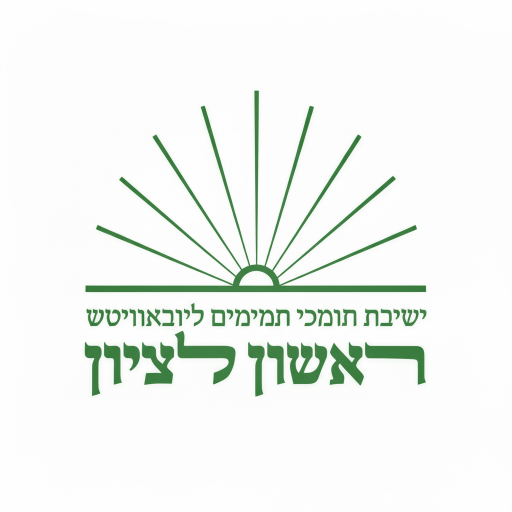
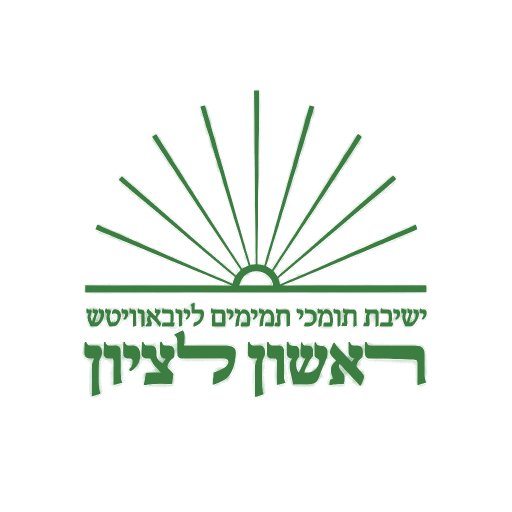
סבב 72: מאסטר אחד לאייקון, וצבע דיו אחד בשני המסלולים
- design/icon-master.png של שכר הוא המקור היחיד, בית-לבית בשתיהן
- דיו ההנהלה נגזר ממנו בסיבוב גוון 225.8° ובהתאמת טון ⟵ [42,60,117]
- tile() מצייר מעכשיו את APP.ink דרך המסכה — ⛔ ולא מעתיק RGB מהמאסטר
- מסכה מתחת ל-ALPHA_MIN מתאפסת: רעש הנייר צבע את רקע האריח
- 16 הנכסים הופקו מחדש בשתיהן; תוכן 192×171 בשתיהן
- שורה 74 — תקן צבע הדיו, probe על שני המסלולים, מוטציה ומוטציית-נגד
- versionCode 11 ⟵ 12 בשתיהן, וטבלת android/README עודכנה

diff --git a/android/README.md b/android/README.md
@@ -15,7 +15,7 @@ Built in the exact pattern of yoman-avoda's round-13 shell (the network-loading 
 |---|---|
 | **Package ID** | `com.schar.limud` |
 | **טוען** | `https://ygtotlrl-lab.github.io/schar-limud/` — **מהרשת**, לא מנכסים מוטבעים |
-| **versionCode** | 11 — קודם בסבב 71 (כל נכסי האייקון נוצרו מחדש ע"י `tools/gen-icons.mjs`, שהוא מעכשיו מקור האמת היחיד להם). 10 — קודם בסבב 71 (חמשת קובצי `ic_launcher_foreground` נגזרו מחדש לצלע תוכן 48/72/96/144/192 בדיוק, בהכפלה מוקדמת באלפא). 9 — קודם בסבב 68 (היסטוריית הגרסאות ירדה מהערות `build.gradle` — מקור אמת שני; ⛔ הטבלה הזו היא ההיסטוריה). 8 — קודם בסבב 66 (עשרת קובצי ה-mipmap הוחלפו). 6 — קודם בתיקון שאחרי סבב 60 (קיצור ההערה המשותפת ב-`ShellActivity`, שנעשה בסבב 60 בלי קידום). 5 — קודם בסבב 58 (הסרת `FLAG_ACTIVITY_NEW_TASK` ממסירת יעד חיצוני ל-`ACTION_VIEW`). 4 = סבב 46ב (היפוך ברירת המחדל בקובצי התצורה). 3 = סבב 45, 2 = סבב 41 (חילוץ המעטפת), 1 = המעטפת הראשונה של שכר לימוד, טוענת מהרשת מהיום הראשון (לא היה כאן שלב `file://`) |
+| **versionCode** | 12 — קודם בסבב 72 (מאסטר האייקון אוחד: קובץ אחד לשתי האפליקציות שציורן זהה, וצבע הדיו נגזר ממנו במקום להיות מוקלד — `tile()` ו-`foreground()` מציירים מעכשיו באותו צבע). 11 — קודם בסבב 71 (כל נכסי האייקון נוצרו מחדש ע"י `tools/gen-icons.mjs`, שהוא מעכשיו מקור האמת היחיד להם). 10 — קודם בסבב 71 (חמשת קובצי `ic_launcher_foreground` נגזרו מחדש לצלע תוכן 48/72/96/144/192 בדיוק, בהכפלה מוקדמת באלפא). 9 — קודם בסבב 68 (היסטוריית הגרסאות ירדה מהערות `build.gradle` — מקור אמת שני; ⛔ הטבלה הזו היא ההיסטוריה). 8 — קודם בסבב 66 (עשרת קובצי ה-mipmap הוחלפו). 6 — קודם בתיקון שאחרי סבב 60 (קיצור ההערה המשותפת ב-`ShellActivity`, שנעשה בסבב 60 בלי קידום). 5 — קודם בסבב 58 (הסרת `FLAG_ACTIVITY_NEW_TASK` ממסירת יעד חיצוני ל-`ACTION_VIEW`). 4 = סבב 46ב (היפוך ברירת המחדל בקובצי התצורה). 3 = סבב 45, 2 = סבב 41 (חילוץ המעטפת), 1 = המעטפת הראשונה של שכר לימוד, טוענת מהרשת מהיום הראשון (לא היה כאן שלב `file://`) |
 | **minSdk / targetSdk** | 21 / 34 |
 | **WebView** | JavaScript, DOM storage (localStorage — שם יושבים `sl_mirror_*`/`sl_pending`), DB. **בלי** גישת `file://` ובלי mixed content פתוח — האתר הוא https בלבד, `usesCleartextTraffic=false` |
 | **ניווט** | כל `http`/`https` **נשאר בתוך המעטפת**. שאר הסכימות (`tel:`, `mailto:`, `whatsapp:`, …) נמסרות למערכת |

diff --git a/CLAUDE.md b/CLAUDE.md
@@ -251,7 +251,7 @@ foot)` — מיכל אחד ומסלול סגירה יחיד. ⛔ אירועים 
 | | **ו · אנדרואיד ומעטפת** | | | | | | |
 | 72 | מעטפת `ShellActivity` | ליבת המעטפת, זהה בית-לבית | ✅ | ✅ | ✅ | ✅ |  |
 | 73 | מספר קבצים ב-`android/` | **20 קבצים** | ⭕ | ✅ | ✅ | ✅ | 21 ביומן — `file_paths` לגשר השיתוף |
-| 74 | שכבת האייקונים | 10 קובצי mipmap · מסגרת 48–192 ו-108–432 · תוכן 48–192 · רקע תואם · ⛔ **ותיבת התוכן במרכז המסגרת, בסטייה של פיקסל אחד לכל היותר** | ✅ | ✅ | ✅ | ✅ |  |
+| 74 | שכבת האייקונים | 10 קובצי mipmap · מסגרת 48–192 ו-108–432 · תוכן 48–192 · רקע תואם · ⛔ **תיבת התוכן במרכז המסגרת, בסטייה של פיקסל אחד לכל היותר** · ⛔ **וצבע הדיו זהה ב-`tile()` וב-`foreground()`, ומוצהר ב-`APP`** | ✅ | ✅ | ✅ | ✅ |  |
 | 75 | הכפלה מוקדמת באלפא | הקטנת נכס עם שקיפות חלקית | ✅ | ✅ | ✅ | ✅ |  |
 | 76 | `manifest.json` | שלושה אייקונים, `maskable` נפרד | ✅ | ✅ | ✅ | ✅ |  |
 | 77 | גשר שיתוף | `createChooser`, ⛔ בלי `NEW_TASK` | ✅ | ⭕ | ⭕ | ⭕ | רק יומן מייצאת קובץ החוצה |
